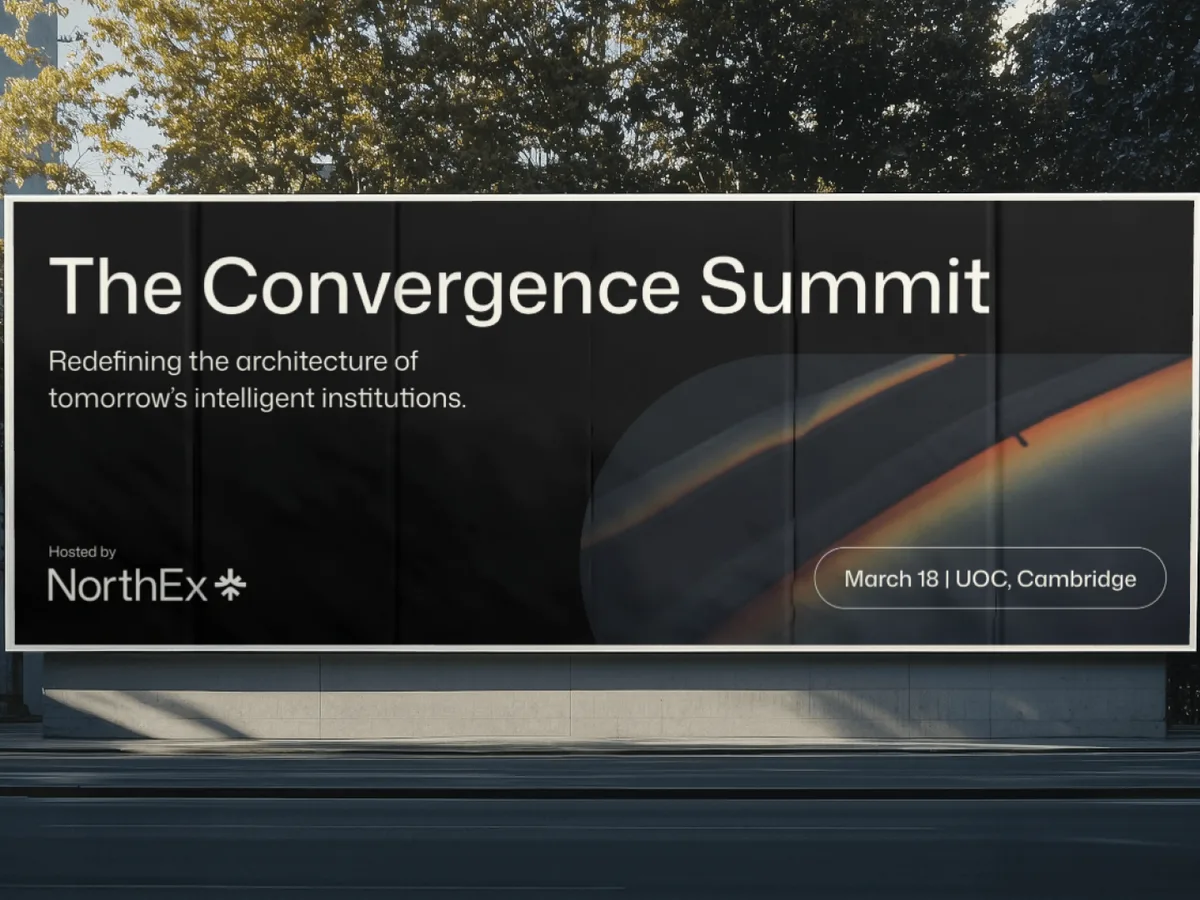
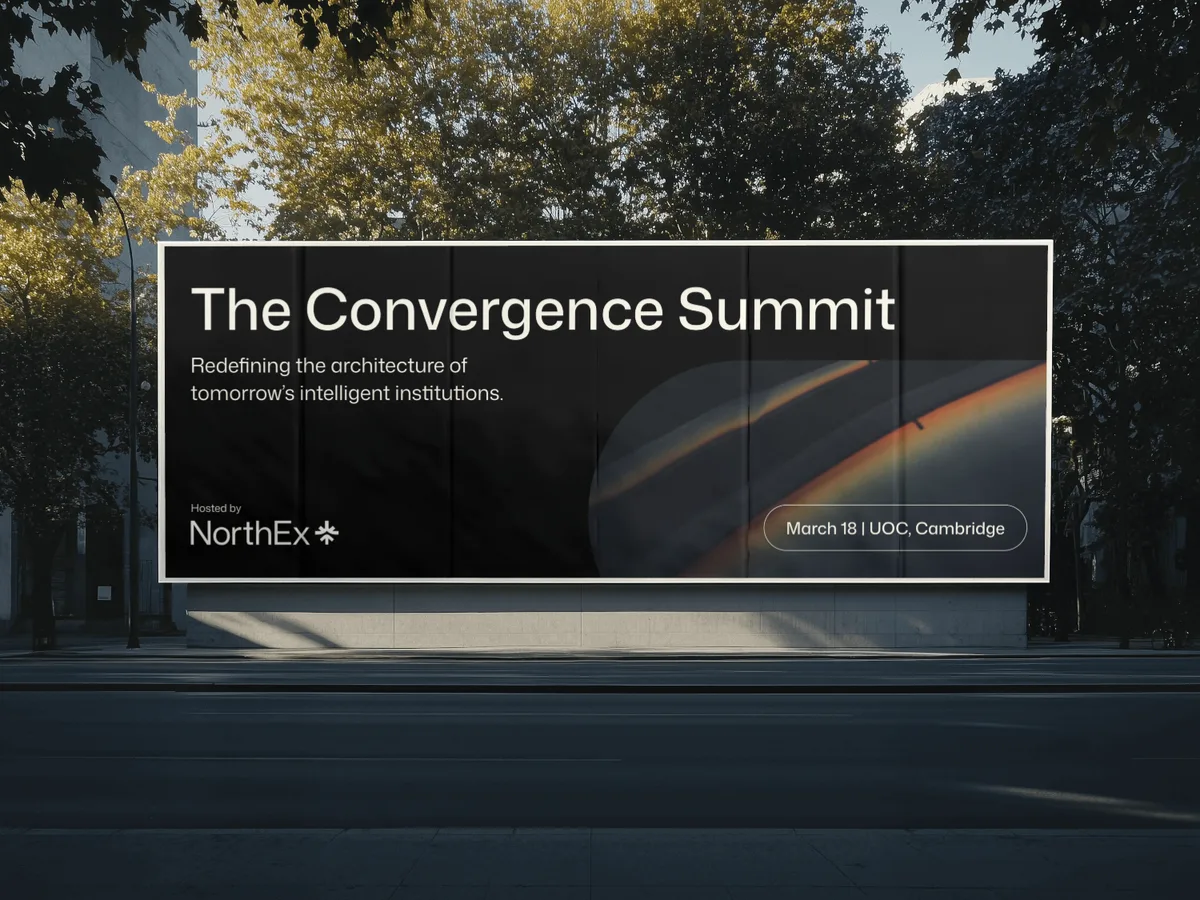
NorthEx card uses the full billboard photo, so the whole billboard fits in the card

diff --git a/index.html b/index.html
@@ -264,7 +264,7 @@
           <a class="card__link" href="/projectnod">See Project <svg class="icon icon--arrow" viewBox="0 -960 960 960" aria-hidden="true" focusable="false"><path d="m256-240-56-56 384-384H240v-80h480v480h-80v-344L256-240Z"/></svg></a>
       </li>
       <li class="card" data-filters="brand">
-        <img class="card__img" src="assets/img/home/northex.webp" alt="A street billboard for The Convergence Summit, hosted by NorthEx, in its new identity" loading="lazy" decoding="async">
+        <img class="card__img" src="assets/img/home/northex.webp?v=2" alt="A street billboard for The Convergence Summit, hosted by NorthEx, in its new identity" loading="lazy" decoding="async">
         <h3 class="card__title">NorthEx brand identity</h3>
         <p class="card__client">NorthEx</p>
         <ul class="tags"><li>Brand</li><li>Identity</li><li>Guidelines</li></ul>
